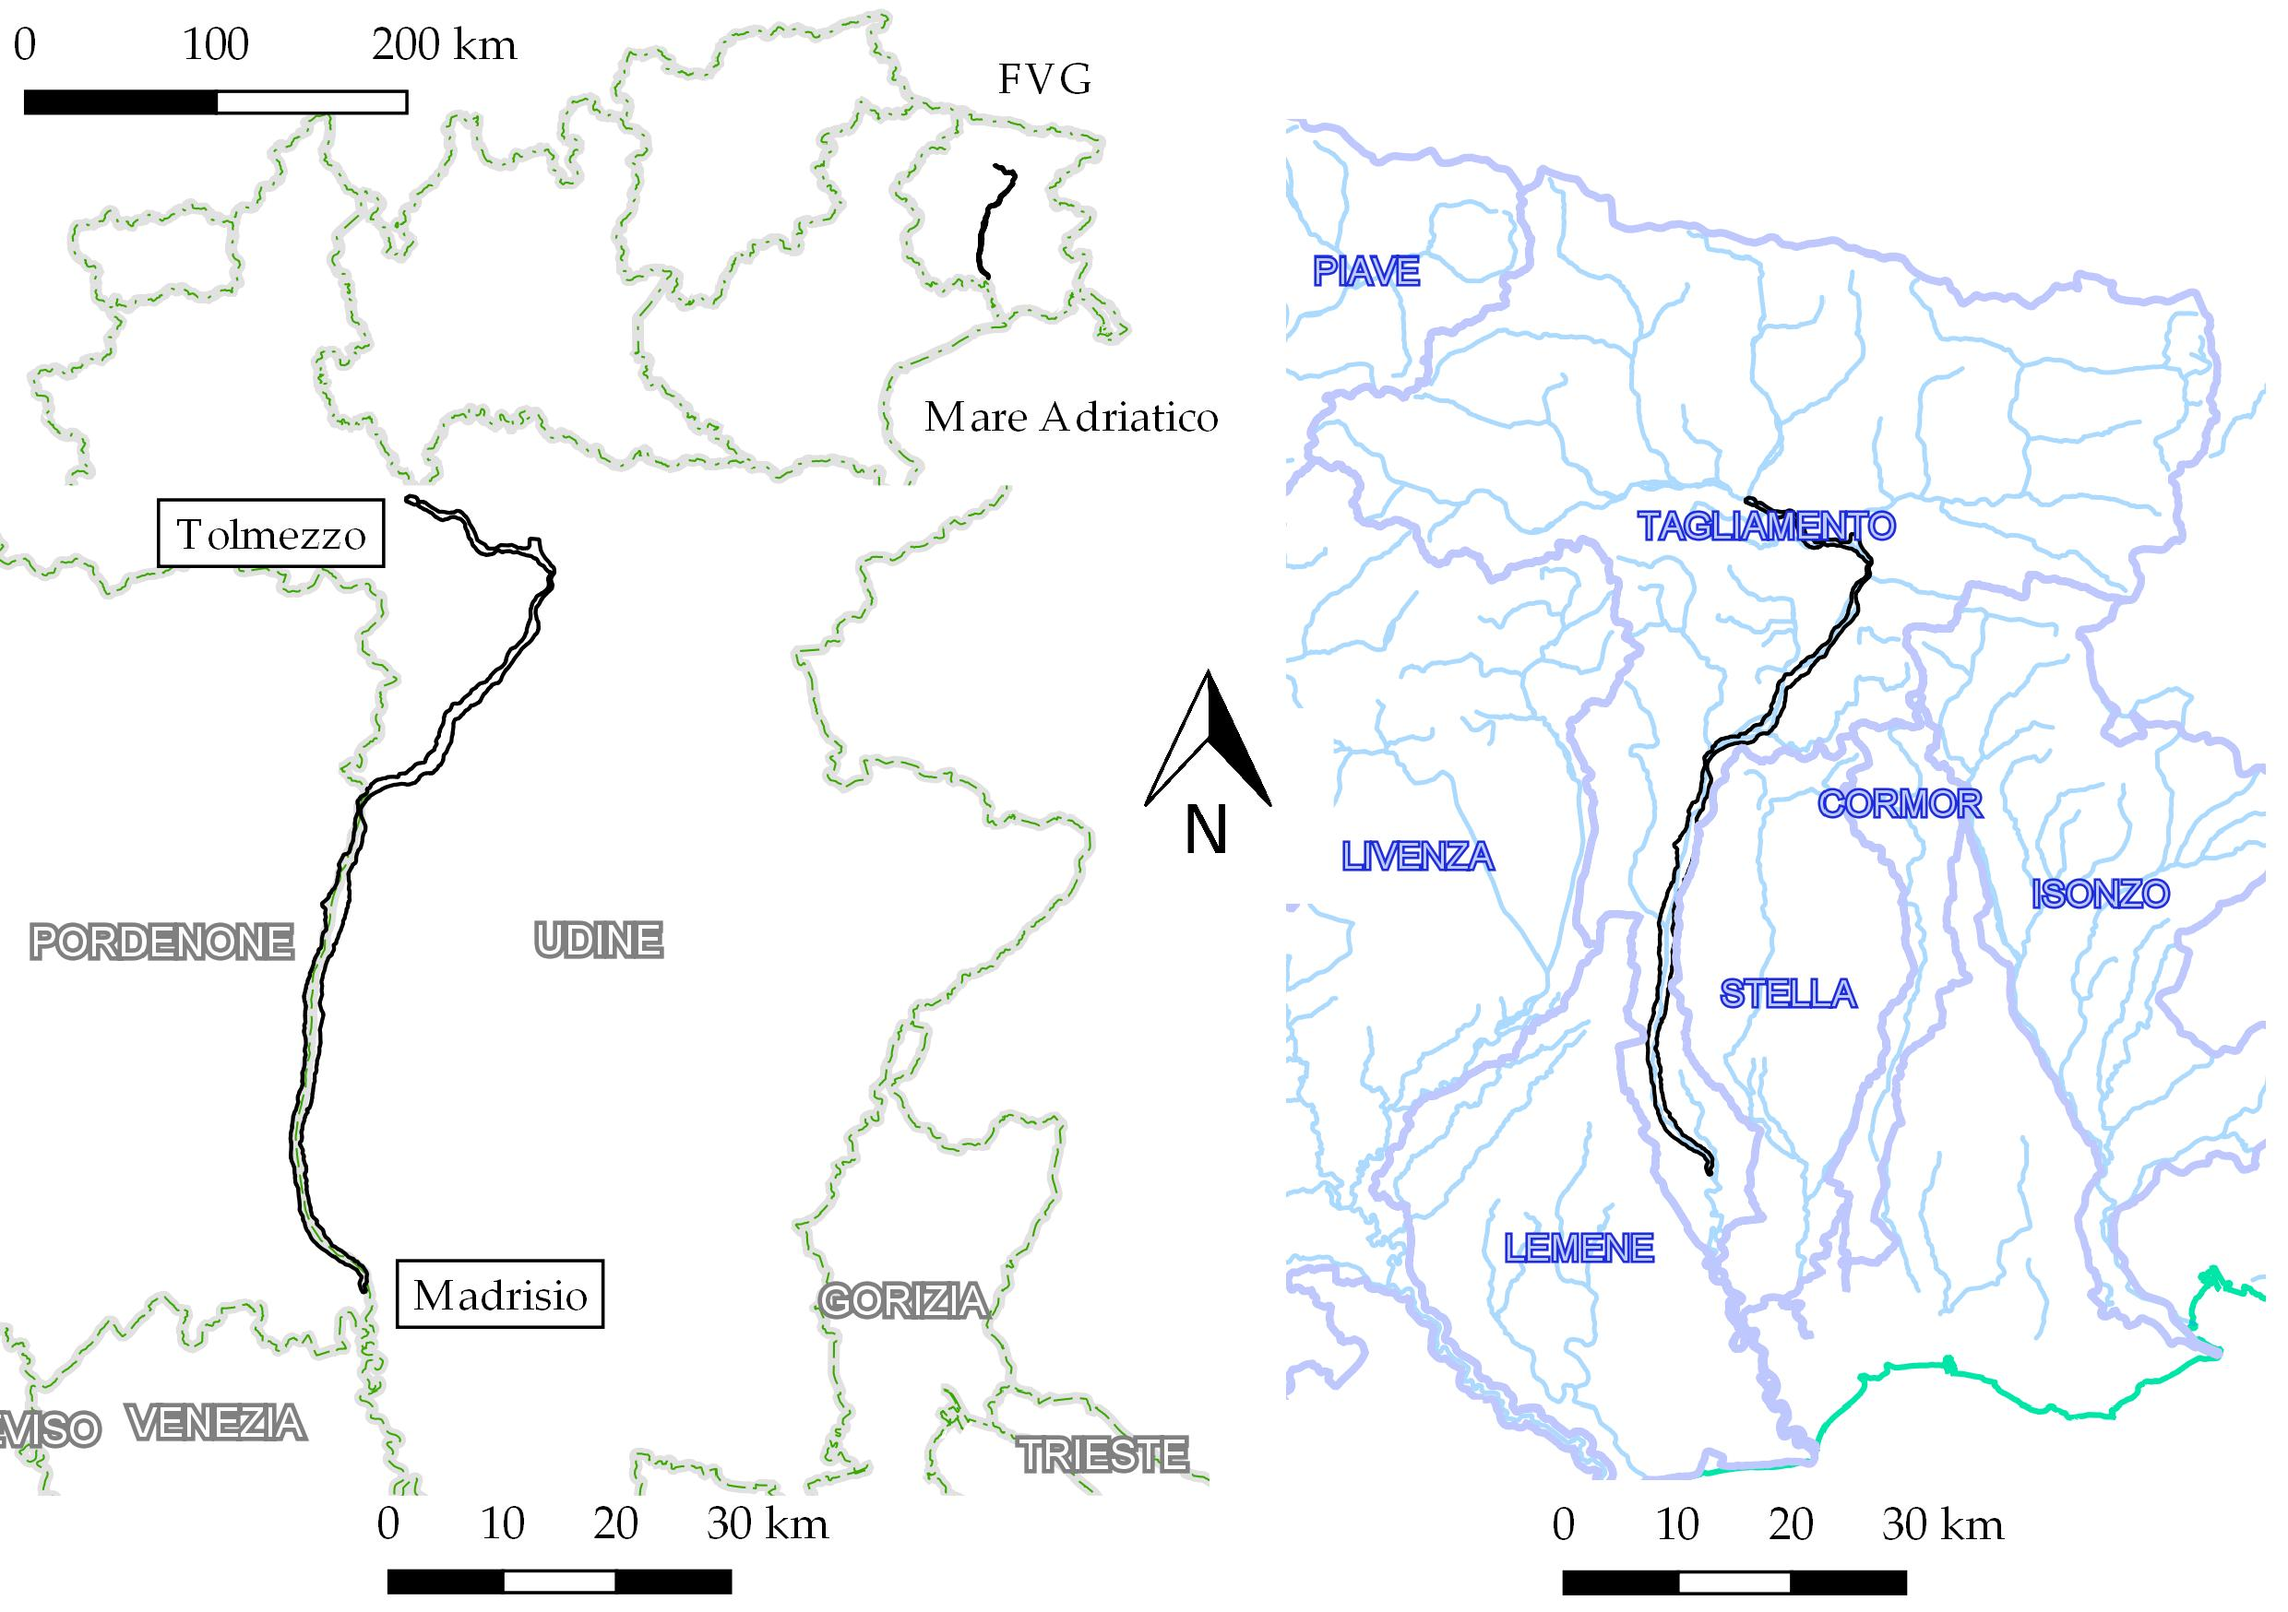
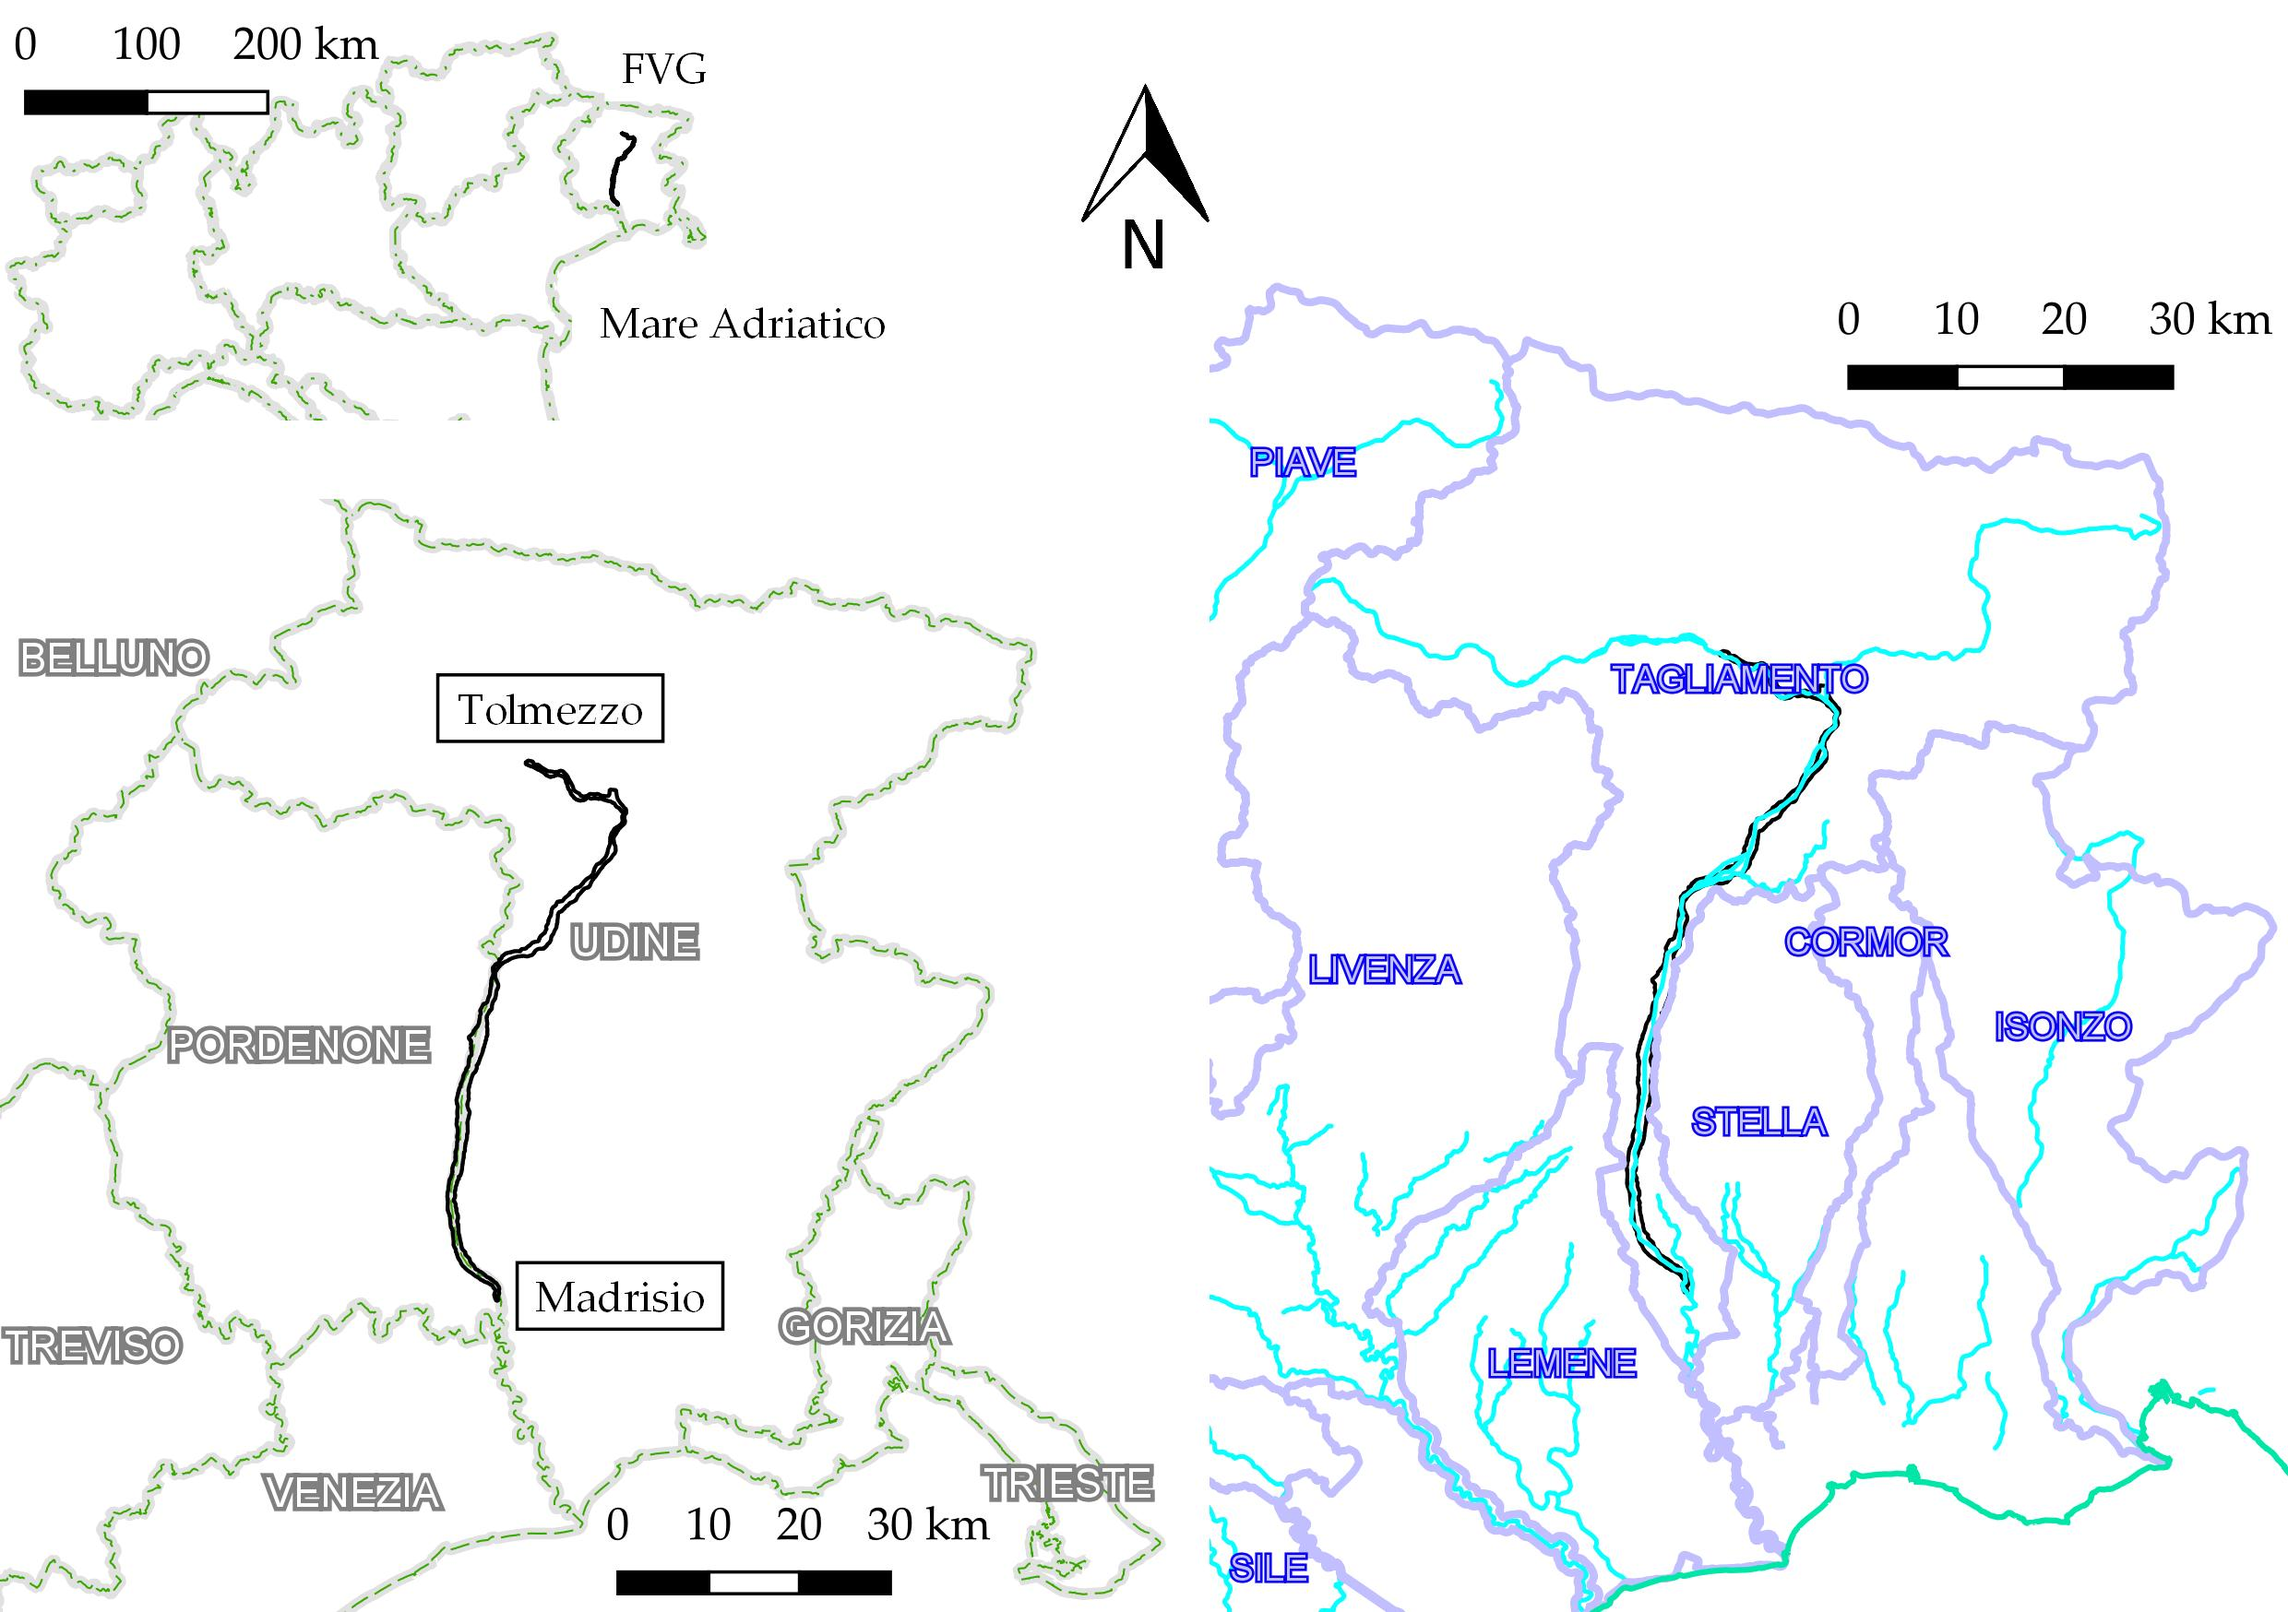
Intro+Fix: corrections to study area overview by WB

diff --git a/capitoli/1a-introduzione.tex b/capitoli/1a-introduzione.tex
@@ -38,19 +38,20 @@ I dati così ottenuti sono stati messi in relazione al regime idrologico dello s
 \section{Inquadramento dell'area di studio}
 Il Fiume Tagliamento, situato nel Nord-Est italiano, è uno dei pochi fiumi alpini allo stato quasi naturale. 
 Gli interventi effettuati sono arginature, derivazioni, pennelli, estrazione di ghiaia sia in tratti posti a monte che altri posti a valle; la loro entità è comunque tanto limitata da poter parlare di “contesto non gestito”.
-Difatti il regime idrologico del Tagliamento presenta oscillazioni irregolari che hanno luogo ciclicamente ogni 6~mesi circa, probabilmente grazie alle precipitazioni autunnali e primaverili e allo scioglimento nivale \squarecite{Bertoldi:2009-2m}; inoltre le sponde sono colonizzate da vegetazione riparia lungo quasi tutto il suo corso, si accrescono e vengono erose. 
-Questi due fatti indicano che le attività umane sul Tagliamento non sono tali da aver alterato o da alterare il regime del fiume.
+Difatti il Tagliamento presenta un regime idrologico non alterato, con piene frequenti ed imprevedibili dovute all'alta piovosità nel bacino \squarecite{Bertoldi:2009-2m} e alla limitata presenza di bacini di regolazione (solo il \SI{3}{\percent} dell'area drenante del bacino è intercettata da dighe \squarecite{Sitzia:2016-d50}); inoltre le sponde e l'alveo sono colonizzate da ampie porzioni di vegetazione riparia lungo quasi tutto il suo corso. 
+Questi fatti indicano che le attività umane sul Tagliamento non sono tali da aver alterato o da alterare il regime del fiume.
 
-Il bacino idrografico del Tagliamento, ampio circa~\SI{2900}{\kilo\m\tothe{2}}, si estende tra le province di Udine, Pordenone e Venezia.
-Il suo corso di circa~\SI{170}{\kilo\m} presenta morfologia intrecciata (\emph{braided}, con canali multipli separati da barre e isole).
-Nelle parti montane è confinato dai versanti; nella parte planiziale è libero, con tratti larghi diverse centinaia di metri, se non più di \SI{1}{\kilo\m};
-A qualche decina di chilometri dalla foce il fiume si restringe assumendo prima una forma transizionale monocursale con larghezza sui \SIrange[range-phrase={-}]{300}{200}{\m} nei pressi di Madrisio~(UD);
-infine meandriforme a Latisana~(UD) (larghezza intorno ai \SI{100}{\m}) fino alla foce, situata tra Bibione~(VE) e Lignano~(UD).
+Il bacino idrografico del Tagliamento, ampio circa~\SI{2900}{\kilo\m\tothe{2}}, si estende tra le province di Belluno, Udine, Pordenone e Venezia.
+Il suo corso di circa~\SI{170}{\kilo\m} presenta morfologia intrecciata (\emph{braided}) con canali multipli separati da barre e isole.
+Nelle parti montane è confinato dai versanti; 
+nella parte planiziale è libero, con tratti larghi diverse centinaia di metri, se non più di \SI{1}{\kilo\m};
+a qualche decina di chilometri dalla foce il fiume si restringe assumendo prima una forma transizionale monocursale con larghezza sui \SIrange[range-phrase={-}]{300}{200}{\m} nei pressi di Madrisio~(UD);
+infine diventa meandriforme a Latisana~(UD) (larghezza intorno ai \SI{100}{\m}) fino alla foce, situata tra Bibione~(VE) e Lignano~(UD).
 \\
 Insieme alla variazione della morfologia del fiume si assiste ad un cambiamento nella granulometria: mentre la ghiaia predomina nella parte intrecciata ($d_{50} = \SI{4}{\centi\m}$ \squarecites{Bertoldi:2010-d50}{Sitzia:2016-d50}), a partire dal tratto meandriforme si trova solo sabbia sul fondo.
 Questo mutamento di materiale trasportato riflette la riduzione della pendenza che si osserva dal tratto transizionale monocursale e che giustifica il passaggio da fiume “in ghiaia” a fiume “in sabbia”.
 \\
-Il regime delle precipitazioni consiste di circa \SI{2000}{\mm} all'anno in media con forti variazioni locali; i minimi di precipitazione si registrano durante l'inverno, mentre i massimi in primavera e in autunno. Si assiste anche ad eventi di breve durata e particolarmente intensi.
+Le precipitazioni sono mediamente di circa \SI{2000}{\mm} all'anno con forti variazioni locali; i minimi di precipitazione si registrano durante l'inverno, mentre i massimi in primavera e in autunno. Si assiste anche ad eventi di breve durata e particolarmente intensi.
 Il regime fluviale che ne risulta è di tipo \emph{flashy} pluvio-nivale con piene brevi ed intense così come piene di diversi giorni di durata.
 
 Il tratto studiato è quello intrecciato multicanale compreso tra Tolmezzo~(UD) e Madrisio~(UD) (\vref{fig:overview,fig:overview-sat}). 
@@ -59,7 +60,7 @@ Il tratto studiato è quello intrecciato multicanale compreso tra Tolmezzo~(UD) 
 	\centering
 	\includegraphics[width=\textwidth]{files/overview.jpeg}
 	\caption[inquadramento dell'area di studio]
-		{inquadramento dell'area di studio (poligono nero); a sinistra è mostrata l'Italia settentrionale (in alto) e un ingrandimento delle province e degli estremi dell'area di studio (in basso); a destra si vede il bacino idrografico del Tagliamento e di altri fiumi nelle vicinanze (in blu), il reticolo idrografico (in azzurro) e la linea di costa (in verde acqua).}
+		{inquadramento dell'area di studio (poligono nero); a sinistra è mostrata l'Italia settentrionale (in alto) e un ingrandimento delle province e degli estremi dell'area di studio (in basso); a destra si vede il bacino idrografico del Tagliamento e di altri fiumi nelle vicinanze (in blu), il reticolo idrografico (in azzurro) e la linea di costa (in verde acqua). I tematismi provengono dal Portale Cartografico Nazionale del Ministero dell'Ambiente.}
 	\label{fig:overview}
 \end{figure}
 %
@@ -73,14 +74,14 @@ Il tratto studiato è quello intrecciato multicanale compreso tra Tolmezzo~(UD) 
 \end{figure}
 %
 \\
-L'area di studio è stata suddivisa manualmente in 23~tratti con 22~sezioni al fine di avere un maggior dettaglio spaziale delle dinamiche di vegetazione (\vref{fig:23-tratti}). 
+L'area di studio è stata suddivisa manualmente in 23~tratti al fine di avere un maggior dettaglio spaziale delle dinamiche di vegetazione (\vref{fig:23-tratti}). 
 Questi tratti sono stati selezionati in modo da possedere caratteristiche omogenee per portata e crescita della vegetazione; 
-pertanto confluenze di immissari, bruschi restringimenti o allargamenti, inizio di pronunciato \emph{upwelling} o \emph{downwelling} ed evidenti cambiamenti di morfologia fluviale sono stati gli elementi per individuare le 22~sezioni che determinano i 23~tratti.
+pertanto confluenze di immissari, bruschi restringimenti o allargamenti, inizio di pronunciato \emph{upwelling} o \emph{downwelling} ed evidenti cambiamenti di morfologia fluviale sono stati gli elementi per individuare i 23~tratti.
 %
 \begin{figure}
 	\centering
 	\includegraphics[width=\textwidth]{files/tutti_23_tratti.jpeg}
-	\caption[i 23 tratti in cui è suddivisa l'area di studio]{i 23 tratti in cui è suddivisa l'area di studio (figura~A); la sezione di monte del tratto~1 corrisponde a Tolmezzo, la sezione di valle del tratto~23 corrisponde al ponte di Madrisio. A destra sono mostrati ingrandimenti dei tratti presso l'isola di Cornino e la stretta di Pinzano (figura~B) e nei tratti dove la morfologia diventa transizionale presso Madrisio (figura~C).
+	\caption[i 23 tratti in cui è suddivisa l'area di studio]{i 23 tratti in cui è suddivisa l'area di studio (figura~A); la sezione di monte del tratto~1 corrisponde a Tolmezzo, la sezione di valle del tratto~23 corrisponde al ponte di Madrisio. A destra sono mostrati ingrandimenti dei tratti presso l'isola di Cornino e la stretta di Pinzano (figura~B) e nei tratti dove la morfologia diventa transizionale poco a monte di Madrisio (figura~C).
 	\\
 	Map data: Google, Digital Globe.}
 	\label{fig:23-tratti}
